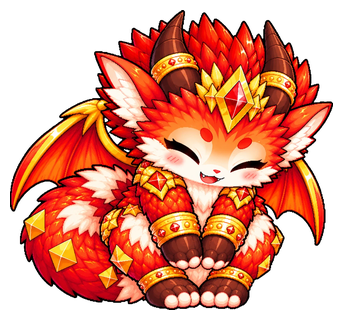
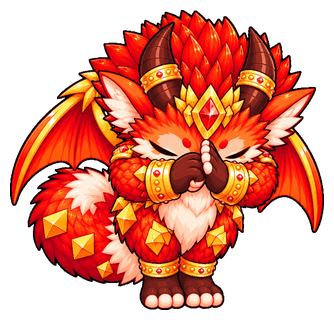
MawKorn: 05 Thank you v3 (Chinese formal bow)
Claude-Session: https://claude.ai/code/session_01CqN5TM8CtnKZx6KMXb1z93

diff --git a/mangkorn/PLAN.md b/mangkorn/PLAN.md
@@ -23,7 +23,7 @@ New chat? Read this whole file first, then continue from **Status**.
 - 02 On my way!: **tricycle** version chosen. v3 (fix prompt `prompts/02-on-my-way-fix.md`) fixed the floating rear wheel. Feet stay dark brown on top: that matches `dragon-hungry.png` (brown feet, cream soles with pink pads), so the earlier foot note was wrong. → `mangkorn/stickers/02-on-my-way.png` (324×320). Flying v1 kept as `incoming/02-on-my-way-v1-flying-clean.png`. **Approved.**
 - 03 OK: v1 repeated the Hello pose (rejected); v2 has the sign with a red O → `mangkorn/stickers/03-ok.png` (326×320). **Approved.**
 - 04 No: v1 (grumpy face and crossed arm accepted). X was red; recoloured **blue** in code → `stickers/04-no.png` (344×320). **Approved.** Red version kept in `incoming/04-no-v1-red-x-clean.png`.
-- 05 Thank you: v1 is a seated polite pose (paws on knees, eyes closed smile), NOT the standing bow; no hearts. Processed → `stickers/05-thank-you.png` (344×320). User wants a humble Chinese-style bow with joined paws above the head → prompt `prompts/05-thank-you-v2.md`; v2 bowed with hearts but paws at chest level (not above head) → user showed a photo of the Chinese bow (joined hands in front of the forehead, head bowed into them, elbows out); prompt rewritten to that, waiting for v3. (The photo is a Douyin screenshot: NOT committed.) (v1 could later be reused for another sticker.)
+- 05 Thank you: v3 = Chinese formal bow (front view, head bowed into joined paws, elbows out, no hearts) → `stickers/05-thank-you.png` (334×320). Waiting for approval. Older: v1 sitting (`incoming/05-thank-you-v1-sitting-clean.png`), v2 paws at chest (`incoming/05-thank-you-v2-clean.png`).
 - Tool update: stricter green removal + lime-yellow pocket removal; 01–03 re-processed with it.
 
 ## Rules from the user (follow every time)
